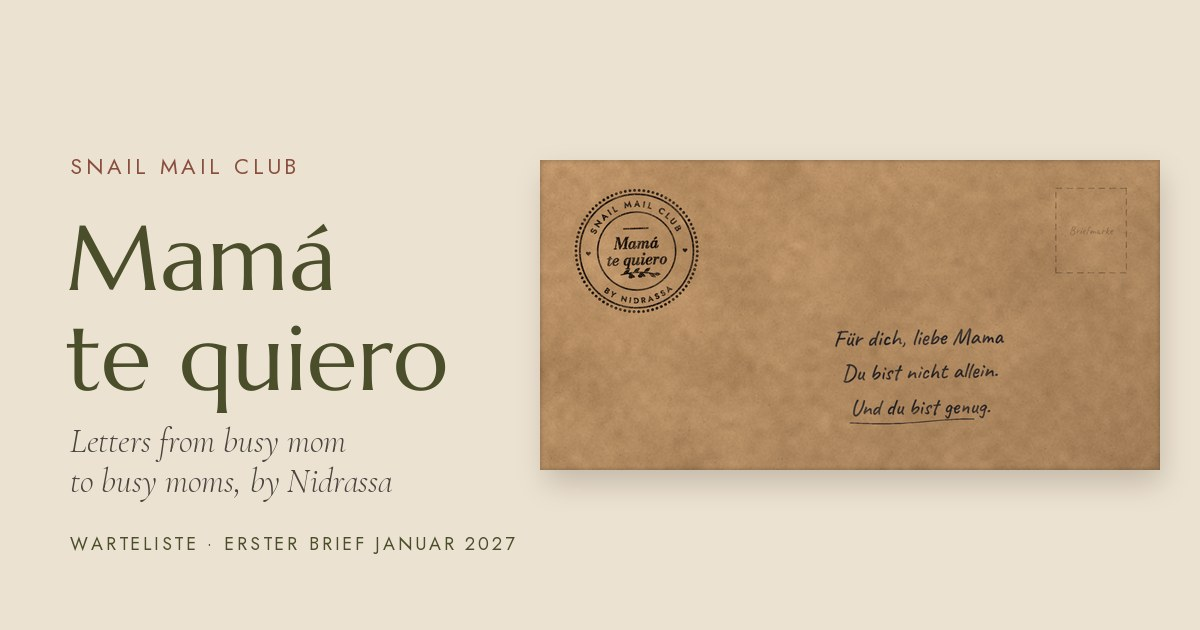
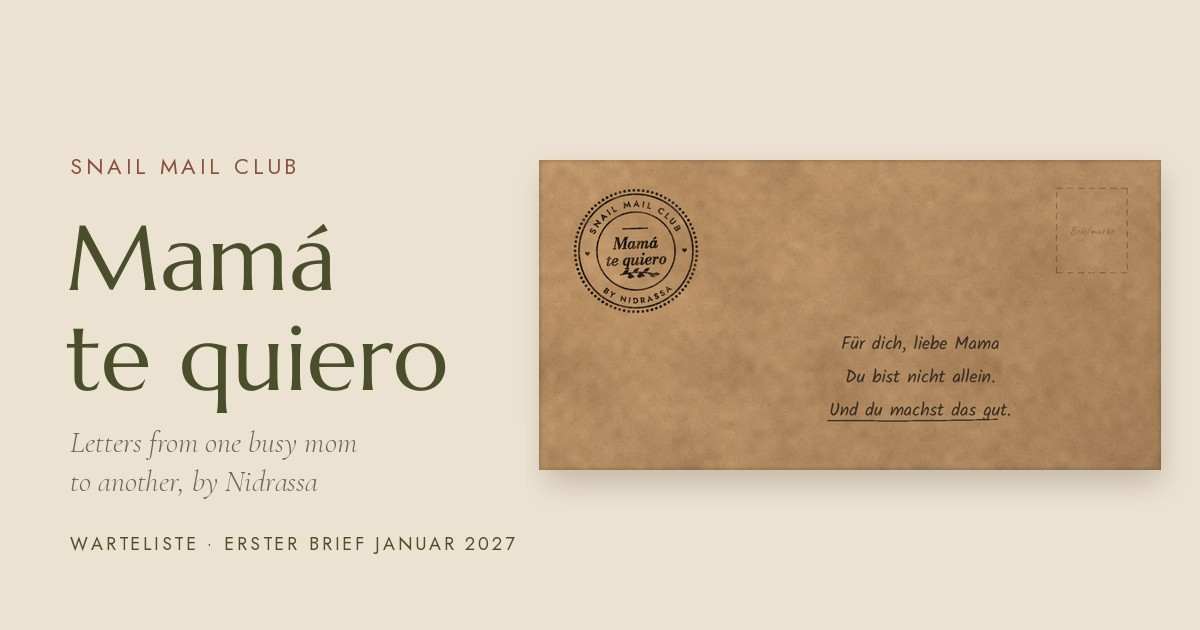
Umschlag + Social-Vorschaubild: „Und du machst das gut.“, „Letters from one busy mom to another“

diff --git a/mamatequiero.html b/mamatequiero.html
@@ -38,7 +38,7 @@ nav: mamatequiero
           only transform/opacity, so no layout shift. Reduced motion: static end state.
         {%- endcomment %}
         <div class="mtq-env">
-          <img src="/assets/mamatequiero/umschlag.webp" width="1400" height="700" alt="Kraftpapier-Umschlag mit dem Stempel „Mamá te quiero – Snail Mail Club by Nidrassa“, einer Nidrassa-Briefmarke mit dem Stern, mit Schnur und rotem Wachssiegel verschlossen, darauf in Handschrift „Für dich, liebe Mama. Du bist nicht allein. Und du bist genug.“">
+          <img src="/assets/mamatequiero/umschlag.webp" width="1400" height="700" alt="Kraftpapier-Umschlag mit dem Stempel „Mamá te quiero – Snail Mail Club by Nidrassa“, einer Nidrassa-Briefmarke mit dem Stern, mit Schnur und rotem Wachssiegel verschlossen, darauf in Handschrift „Für dich, liebe Mama. Du bist nicht allein. Und du machst das gut.“">
           <svg class="mtq-stamp" viewBox="0 0 1400 700" aria-hidden="true">
             <defs>
               <mask id="stamp-perf" maskUnits="userSpaceOnUse" x="-120" y="-140" width="240" height="280">
